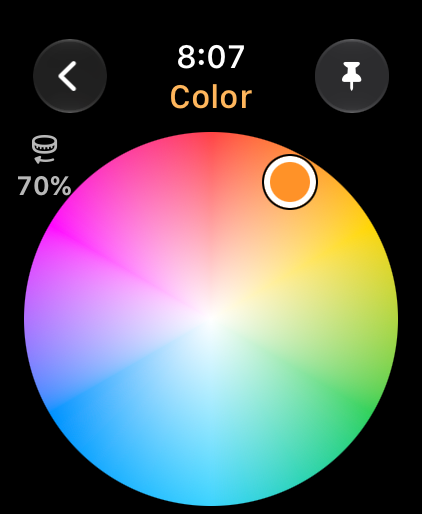
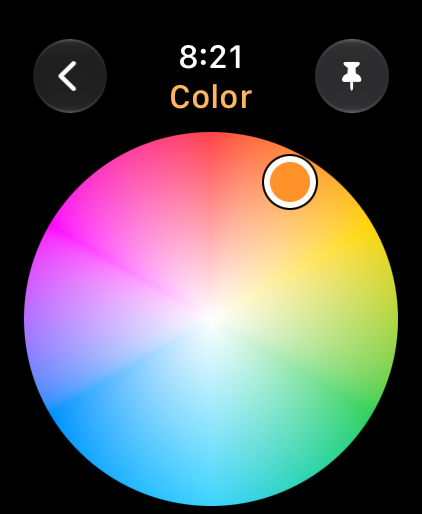
Color screen: Crown scrolls, no brightness; Back to default buttons clear the corners
- The Color wheel screen no longer shows or changes brightness (that's on the Room
  screen); the Crown now scrolls down to the saved colors.
- Back to default / Set as default are 10 pt shorter (two lines at 14 pt) and inset
  6 pt each side, so they clear the screen's rounded bottom corners.
- UI test: the Crown scrolls the Color screen (11 UI tests); docs and screenshots updated.

Claude-Session: https://claude.ai/code/session_01UNtzu9QK85jVsz2Jx2DY1T

Changed region(s): [[0.0308, 0.249, 0.1848, 0.4047], [0.4005, 0.0623, 0.5853, 0.1556]]

diff --git a/House Lights Watch App/Screens/ColorWheel/ColorWheelView.swift b/House Lights Watch App/Screens/ColorWheel/ColorWheelView.swift
@@ -1,10 +1,10 @@
 import SwiftUI
 import WatchKit
 
-/// The Color wheel screen: the largest wheel that fits, the Crown brightness readout, and a
-/// pin button (right of the clock) that saves the current color. Saved colors sit below the
-/// wheel, four across; drag the page to scroll to them. Tap a swatch to use it, hold it to
-/// remove it. The color is sent when the finger lifts, not on every movement.
+/// The Color wheel screen: the largest wheel that fits and a pin button (right of the clock)
+/// that saves the current color. Saved colors sit below the wheel, four across; turn the
+/// Crown or drag the page to scroll to them. Tap a swatch to use it, hold it to remove it.
+/// Brightness is set on the Room screen. The color is sent when the finger lifts.
 struct ColorWheelView: View {
     let roomID: String
     @Environment(AppModel.self) private var app
@@ -19,7 +19,6 @@ struct ColorWheelView: View {
                         let d = min(geo.size.width, geo.size.height) - 4
                         wheel(diameter: d)
                             .frame(width: geo.size.width, height: d)
-                            .overlay(alignment: .topLeading) { brightnessReadout }
                         SwatchGrid(swatches: app.savedSwatches, selected: current, highlighted: justPinned,
                                    onTap: use, onRemove: remove)
                             .id("swatches")
@@ -45,28 +44,11 @@ struct ColorWheelView: View {
                 .accessibilityIdentifier("pinColor")
             }
         }
-        .brightnessCrown(roomID: roomID)
     }
 
     /// The knob's color: where the finger last left it, or the room's current color.
     private var current: (hue: Double, saturation: Double) {
         knob ?? app.room(roomID).map { WheelMath.hueSaturation(of: $0.displayColor) } ?? (0, 0)
-    }
-
-    /// Sits in the empty corner beside the round wheel: the Crown icon above the percentage,
-    /// stacked so the text stays clear of the wheel's edge.
-    private var brightnessReadout: some View {
-        VStack(spacing: 1) {
-            Image(systemName: "digitalcrown.horizontal.arrow.clockwise")
-                .font(.system(size: 13, weight: .semibold))
-                .accessibilityHidden(true)
-            Text(app.room(roomID).map { $0.isOn ? "\($0.percent)%" : "Off" } ?? "")
-                .font(.footnote.weight(.semibold))
-                .monospacedDigit()
-                .accessibilityIdentifier("wheelBrightness")
-        }
-        .foregroundStyle(Theme.secondaryText)
-        .allowsHitTesting(false)
     }
 
     private func wheel(diameter d: CGFloat) -> some View {

diff --git a/House Lights Watch AppUITests/RoomUITests.swift b/House Lights Watch AppUITests/RoomUITests.swift
@@ -21,7 +21,7 @@ final class RoomUITests: XCTestCase {
         waitForExpectations(timeout: 3)
     }
 
-    func testCrownChangesBrightnessOnTheRoomAndWheelScreens() {
+    func testCrownChangesBrightnessOnTheRoomScreen() {
         let app = XCUIApplication()
         app.launchArguments = ["-uiTesting", "-openScreen", "room", "-openRoom", "Living room"]
         app.launch()
@@ -32,13 +32,6 @@ final class RoomUITests: XCTestCase {
         expectation(for: NSPredicate(format: "label != '70%'"), evaluatedWith: level)
         waitForExpectations(timeout: 5)
 
-        app.descendants(matching: .any)["colorWheelRow"].firstMatch.tap()
-        let readout = app.descendants(matching: .any)["wheelBrightness"].firstMatch
-        XCTAssertTrue(readout.waitForExistence(timeout: 5))
-        let before = readout.label
-        XCUIDevice.shared.rotateDigitalCrown(delta: -0.3)
-        expectation(for: NSPredicate(format: "label != %@", before), evaluatedWith: readout)
-        waitForExpectations(timeout: 5)
     }
 
     func testPinScrollAndRemoveASwatch() {
@@ -62,5 +55,17 @@ final class RoomUITests: XCTestCase {
         expectation(for: gone, evaluatedWith: swatch)
         waitForExpectations(timeout: 3)
     }
-}
 
+    func testCrownScrollsTheColorScreen() {
+        let app = XCUIApplication()
+        app.launchArguments = ["-uiTesting", "-openScreen", "wheel", "-mockSwatches", "YES"]
+        app.launch()
+        let swatch = app.descendants(matching: .any)["swatch-8"].firstMatch   // the last one, far below the wheel
+        XCTAssertTrue(swatch.waitForExistence(timeout: 20))
+        XCTAssertFalse(swatch.isHittable)
+        XCUIDevice.shared.rotateDigitalCrown(delta: 1.5)
+        let shown = NSPredicate(format: "hittable == true")
+        expectation(for: shown, evaluatedWith: swatch)
+        waitForExpectations(timeout: 5)
+    }
+}

diff --git a/House Lights Watch App/Screens/Room/TemporaryColorCard.swift b/House Lights Watch App/Screens/Room/TemporaryColorCard.swift
@@ -23,6 +23,7 @@ struct TemporaryColorCard: View {
                     Text(error).font(.footnote).foregroundStyle(.red).lineLimit(1).offset(y: 18)
                 }
             }
+            .padding(.horizontal, 6)   // clear of the screen's rounded bottom corners
             .accessibilityElement(children: .contain)
             .accessibilityIdentifier("temporaryCard")
         }
@@ -36,14 +37,14 @@ struct ColorButtonStyle: ButtonStyle {
 
     func makeBody(configuration: Configuration) -> some View {
         configuration.label
-            .font(.system(size: 15, weight: .semibold))
+            .font(.system(size: 14, weight: .semibold))
             .multilineTextAlignment(.center)
             .lineLimit(2)
             .minimumScaleFactor(0.85)
             .foregroundStyle(color?.labelColor ?? Theme.onAccent)
-            .padding(.horizontal, 10)
-            .padding(.vertical, 6)
-            .frame(maxWidth: .infinity, minHeight: 54)
+            .padding(.horizontal, 8)
+            .padding(.vertical, 3)
+            .frame(maxWidth: .infinity, minHeight: 44)
             .background(
                 RoundedRectangle(cornerRadius: 16, style: .continuous)
                     .fill(color?.tileColor ?? Theme.accent)

diff --git a/SPEC.md b/SPEC.md
@@ -35,7 +35,7 @@ Every screen fits one watch screen without scrolling. The one exception is the g
 | --- | --- | --- |
 | Rooms grid (home) | App launch | All-off button left of the clock, a gear to Settings right of it, the title "Lights" centered under the time, and one tile per room |
 | Room | Hold a tile 0.5 s | Back arrow + room name; a top row with the on/off button, brightness % and a brightness bar; a Warmth slider; a Color wheel row; the default-color card |
-| Color wheel | Room › Color wheel | Back button and a pin button either side of the clock, the Crown brightness readout, the largest wheel that fits, and saved colors below it |
+| Color wheel | Room › Color wheel | Back button and a pin button either side of the clock, the largest wheel that fits, and saved colors below it. Brightness is set on the Room screen; the Crown scrolls here |
 | Settings | Grid › gear | Arrange rooms, Bridge. Back from Settings, Arrange or Bridge goes straight to the grid |
 | Arrange | Settings › Arrange rooms | The same icon grid with every empty spot outlined; drag a room to any spot, and nothing here changes lights |
 | Bridge (pair) | First launch, or Settings › Bridge | IP field, the press-the-button instruction, Pair; then Paired and Show rooms |
@@ -81,7 +81,7 @@ Arrange tiles look like the grid's current state: lit rooms in their color, off 
 - The Crown sets that room's brightness in 5% steps (snapping to multiples of 5), with no scroll indicator; the brightness bar is also a slider you can drag. Its on/off button toggles the room.
 - Changing warmth or color of a room that's off doesn't turn it on: the change is sent without "on" (current Hue bulbs apply it when next switched on), and the tile stays off.
 - **Warmth** sets color temperature (2200–6500 K). **Color wheel** sets color. Whichever was touched last is what the lights show.
-- **Saved colors:** the pin button saves the wheel's current color. Saved colors sit below the wheel as swatches, four across, newest first; drag the page to scroll to them (dragging on the wheel picks a color, and the Crown still only sets brightness). Tap a swatch to use it; hold one to remove it. They're shared by every room and kept on the watch; near-duplicates aren't saved twice.
+- **Saved colors:** the pin button saves the wheel's current color. Saved colors sit below the wheel as swatches, four across, newest first; turn the Crown or drag the page to scroll to them (dragging on the wheel picks a color). Tap a swatch to use it; hold one to remove it. They're shared by every room and kept on the watch; near-duplicates aren't saved twice.
 - The color wheel sends a color when the finger lifts, not on every movement. Convert the wheel's color to Hue's CIE xy coordinates and clamp it to the room's color gamut (the gamut most of its color bulbs share, usually Hue's gamut C), so the swatch matches what the bulbs show. It's sent once through the room's `grouped_light`; the bridge fits it to any bulb with a narrower gamut.
 
 **Temporary colors and defaults**

diff --git a/README.md b/README.md
@@ -90,12 +90,12 @@ that's off doesn't turn it on; the new color shows when it's next switched on.
   <img src="docs/screenshots/swatches.png" width="180" alt="Saved colors below the wheel">
 </p>
 
-The largest wheel that fits, with the Crown icon and brightness stacked in the corner (the
-Crown still sets brightness here). The color is sent when your finger lifts, converted to Hue's CIE xy
+The largest wheel that fits; brightness is set on the Room screen, so here the Crown
+scrolls. The color is sent when your finger lifts, converted to Hue's CIE xy
 coordinates and fitted to the colors the room's bulbs can show.
 
 The **pin** button right of the clock saves the current color. Saved colors appear below
-the wheel, four across; drag the page to scroll to them. Tap a swatch to use it in this
+the wheel, four across; turn the Crown or drag the page to scroll to them. Tap a swatch to use it in this
 room, hold it to remove it. They're shared by every room.
 
 ### Defaults and temporary colors
@@ -240,7 +240,7 @@ using the Apple ID signed in to Xcode.
   the settle window and reloads racing a tap, saved colors, Siri actions and the widget's
   rooms. Widget and Siri snapshots render
   to PNGs with `TEST_RUNNER_SNAPSHOT_DIR=… scripts/test.sh`.
-- **10 UI tests** (XCTest, about 2 minutes): tap toggles, hold opens without toggling, the
+- **11 UI tests** (XCTest, about 2 minutes): tap toggles, hold opens without toggling, the
   Crown on every screen (and never scrolling the big grid), a real Arrange drag, the
   temporary buttons appearing at once, pinning, scrolling to and removing a saved color, and
   Back going straight to the grid.
